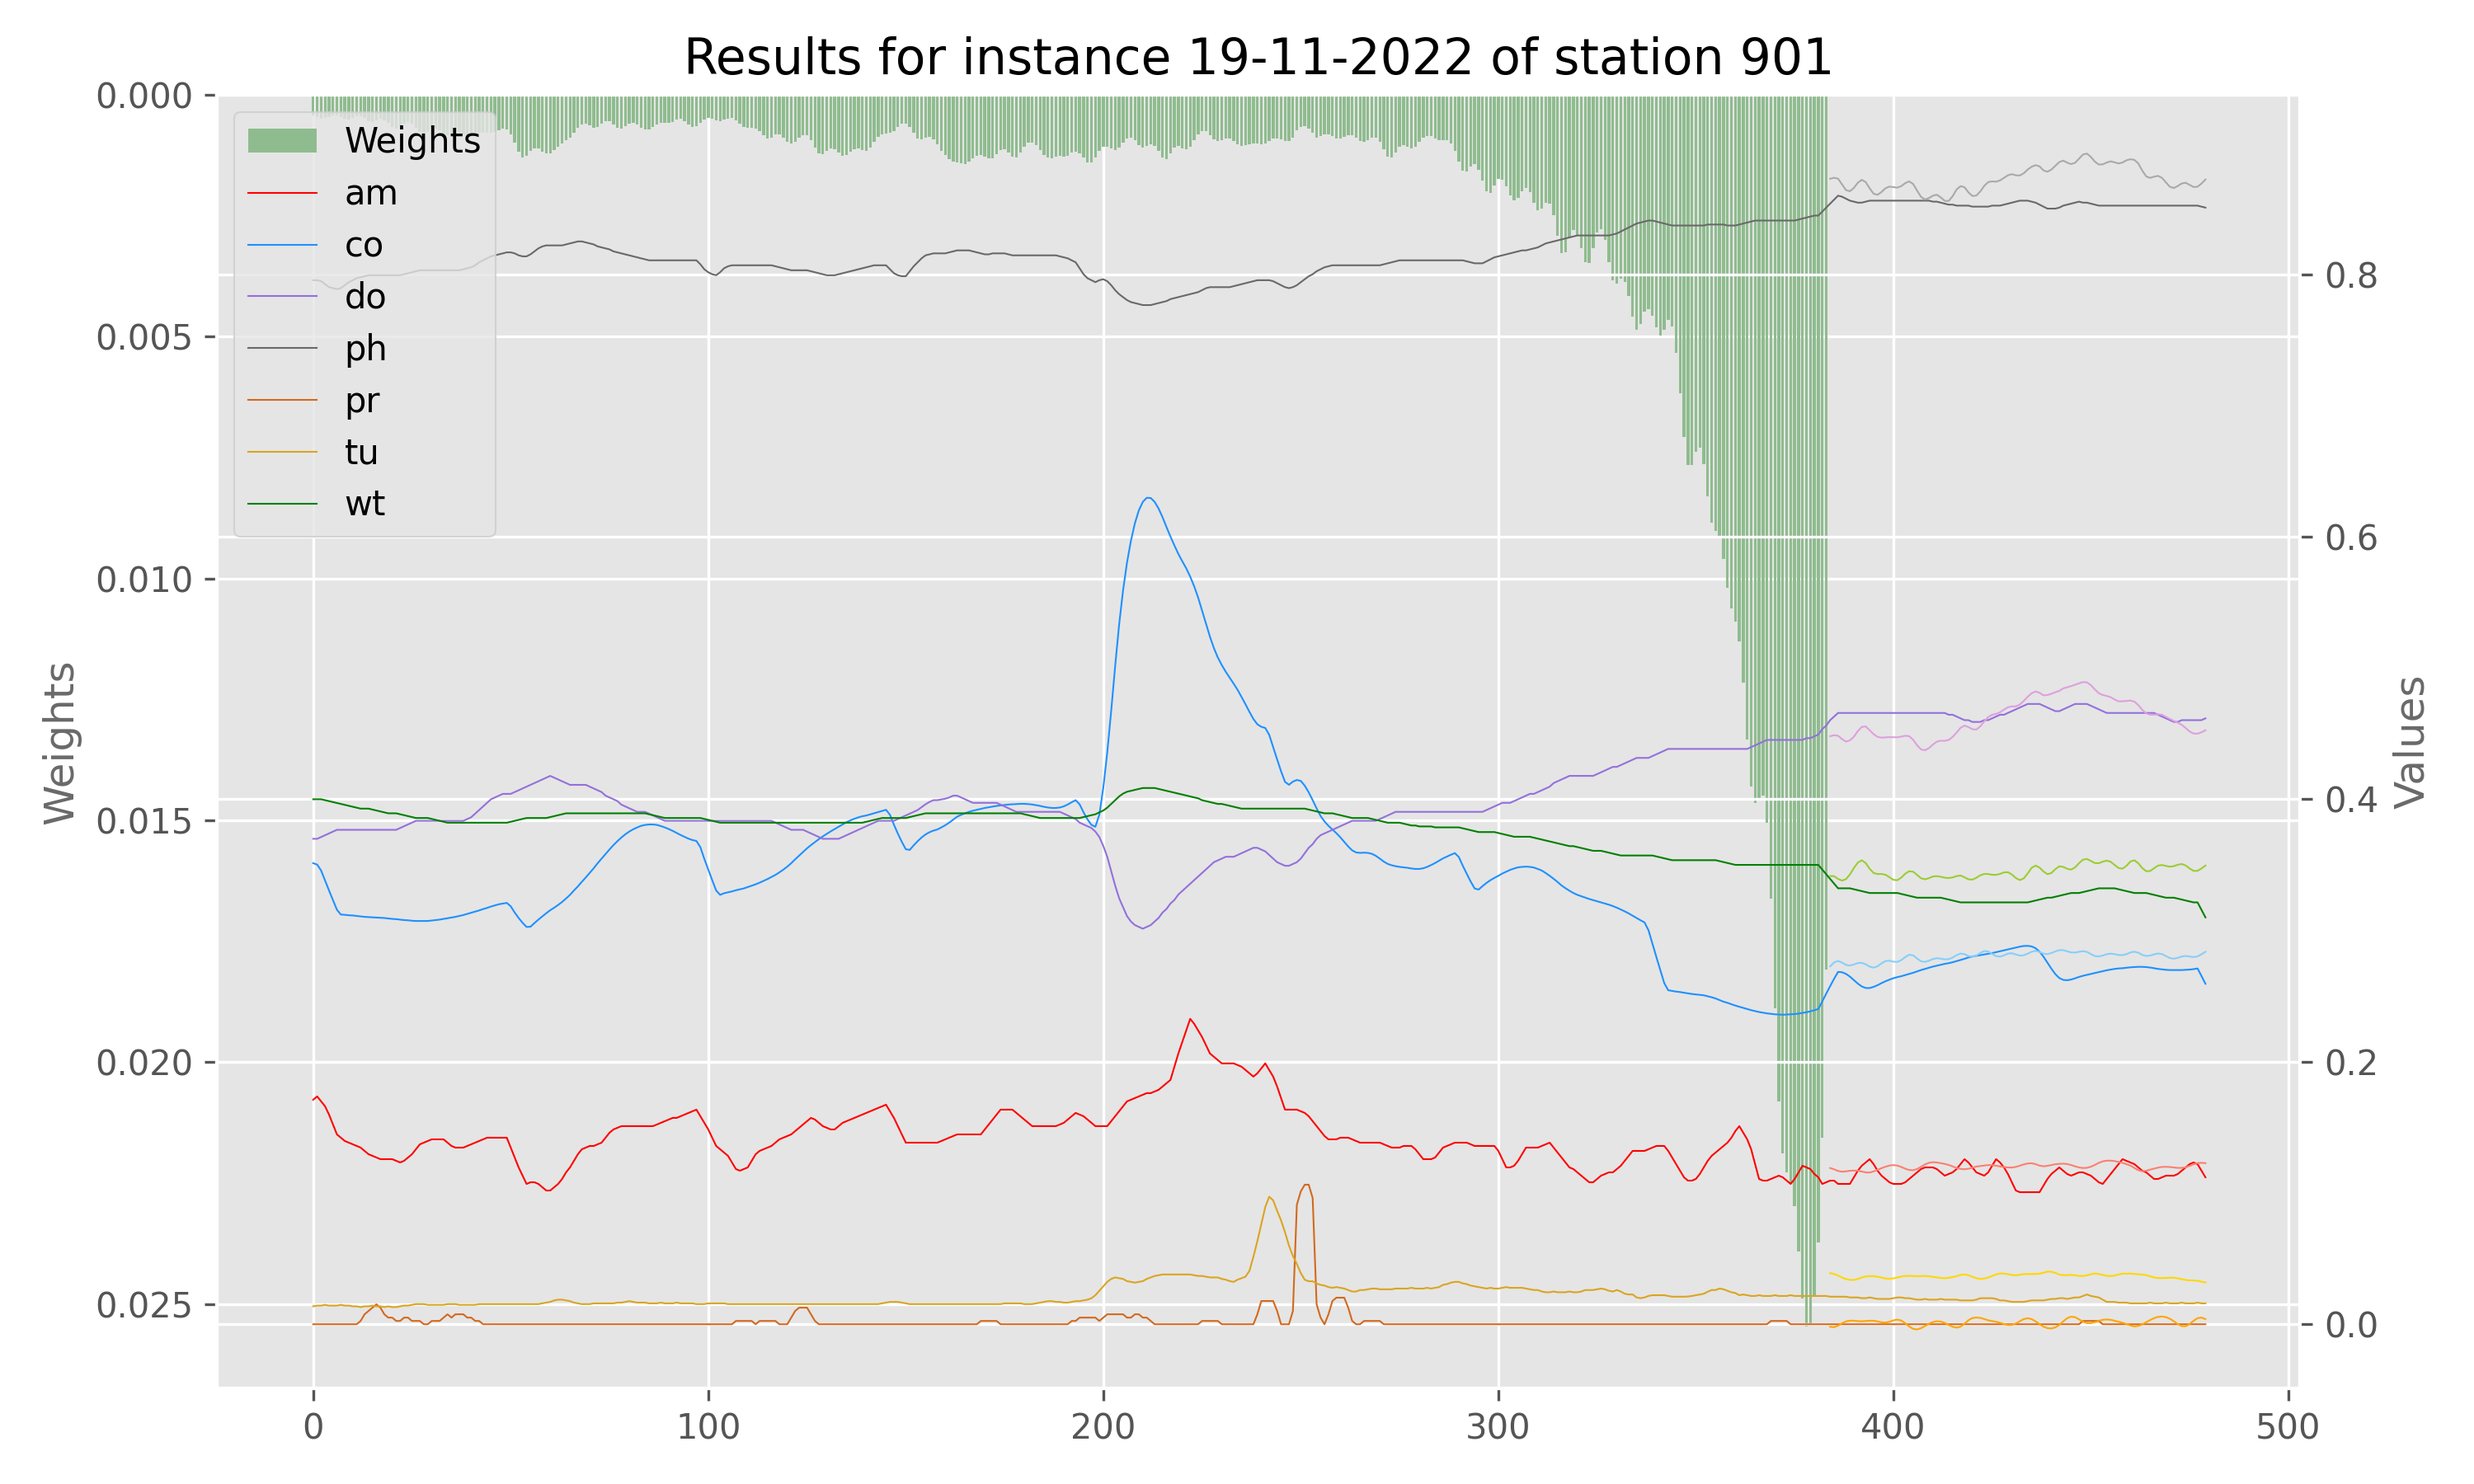
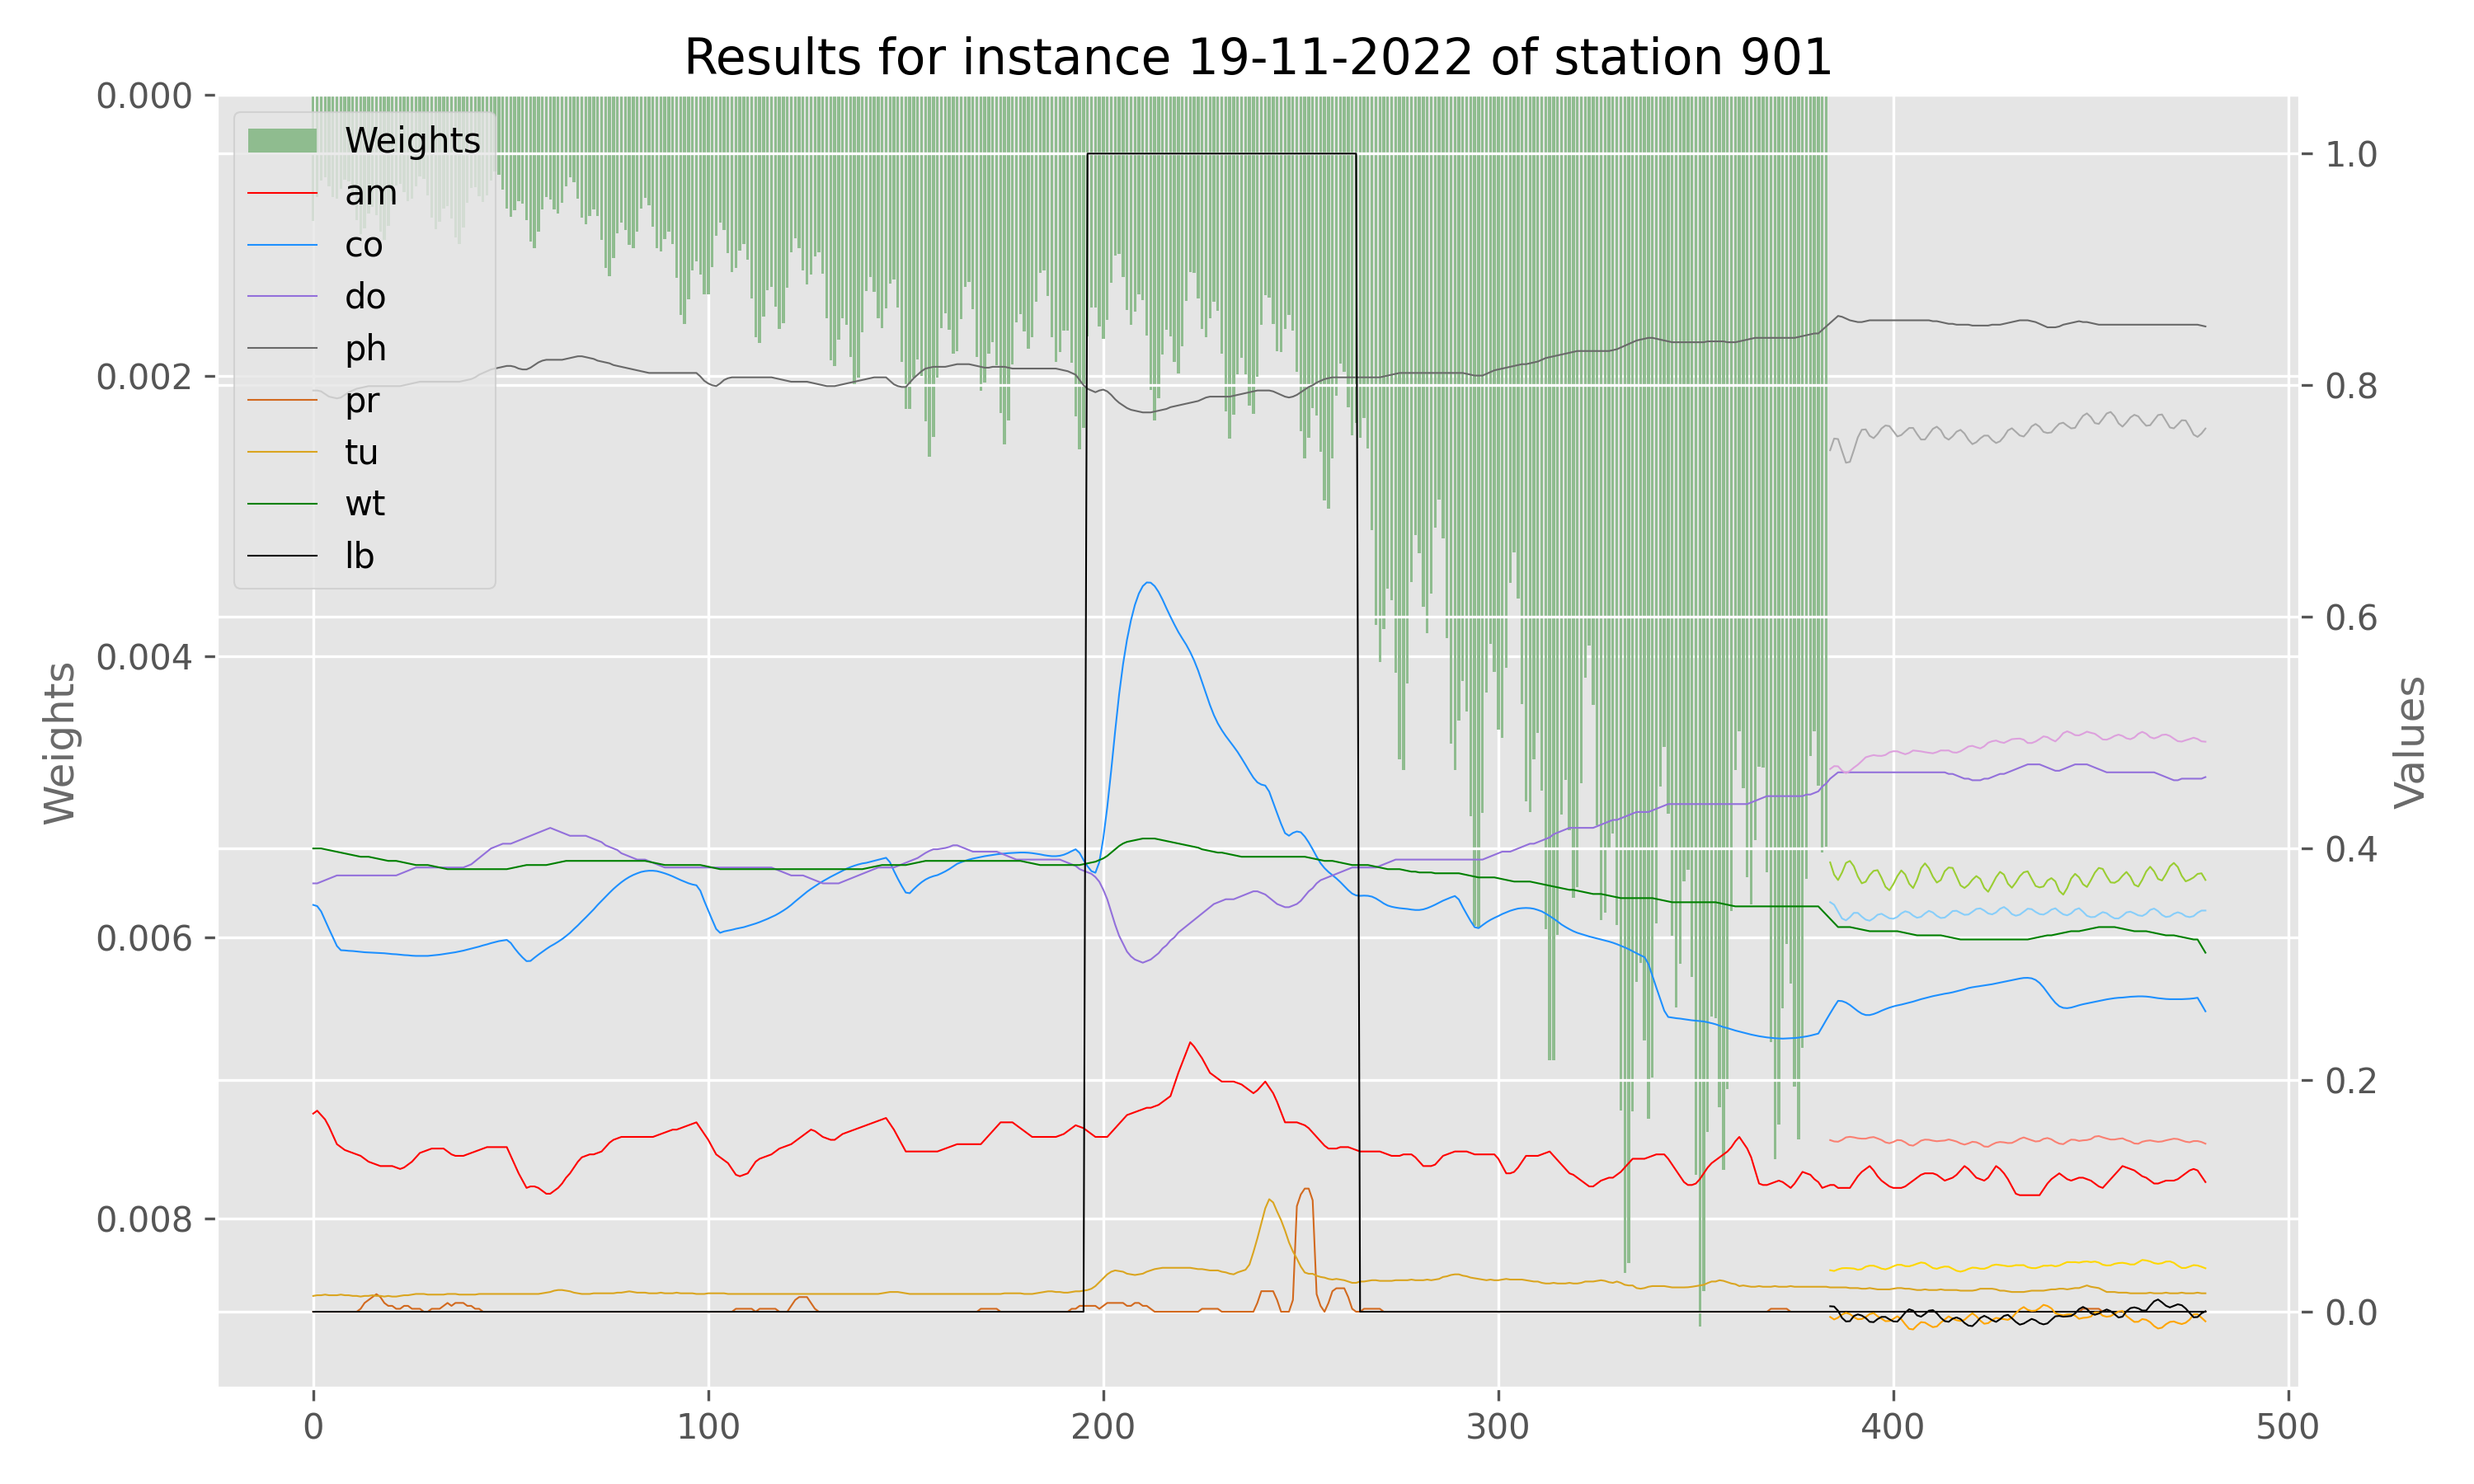
Change prediction task

diff --git a/transformer.py b/transformer.py
@@ -169,11 +169,12 @@ if __name__ == '__main__':
     src_variables = [f'ammonium_{station}', f'conductivity_{station}', 
                     f'dissolved_oxygen_{station}', f'pH_{station}', 
                     f'precipitation_{station}', f'turbidity_{station}',
-                    f'water_temperature_{station}']
+                    f'water_temperature_{station}', 'label']
     tgt_variables = [f'ammonium_{station}', f'conductivity_{station}', 
                     f'dissolved_oxygen_{station}', f'pH_{station}', 
                     f'precipitation_{station}', f'turbidity_{station}',
-                    f'water_temperature_{station}']
+                    f'water_temperature_{station}', 'label']
+
     # input_variables would be just the src or tgt because we are predicting the tgt from the src, and not a tgt that is not in the src
     input_variables = src_variables
     timestamp_col_name = "date"
@@ -181,8 +182,8 @@ if __name__ == '__main__':
     # Only use data from this date and onwards
     cutoff_date = datetime.datetime(2005, 1, 1) 
 
-    d_model = 64
-    n_heads = 4
+    d_model = 16
+    n_heads = 2
     n_encoder_layers = 1
     n_decoder_layers = 1 # Remember that with the current implementation it always has a decoder layer that returns the weights
     encoder_sequence_len = 384 # length of input given to encoder used to create the pre-summarized windows
@@ -196,7 +197,7 @@ if __name__ == '__main__':
     batch_first = True
 
     # Run parameters
-    lr = 0.001
+    lr = 0.0005
     epochs = 300
 
     # Get device

diff --git a/utils.py b/utils.py
@@ -470,9 +470,9 @@ def plots_transformer(date, src, truth, hat, weights, tgt_percentage, station, p
     ground_truth = np.concatenate((src[-int(len(src)*tgt_percentage):], truth))
     
     # Plot the truth and the prediction
-    colors_ground_truth = ['red', 'dodgerblue', 'mediumpurple', 'dimgrey', 'chocolate', 'goldenrod', 'green']
-    colors_hat = ['salmon', 'lightskyblue', 'plum', 'darkgrey', 'orange', 'gold', 'yellowgreen']
-    labels = ['am', 'co', 'do', 'ph', 'pr', 'tu', 'wt']
+    colors_ground_truth = ['red', 'dodgerblue', 'mediumpurple', 'dimgrey', 'chocolate', 'goldenrod', 'green', 'black']
+    colors_hat = ['salmon', 'lightskyblue', 'plum', 'darkgrey', 'orange', 'gold', 'yellowgreen', 'black']
+    labels = ['am', 'co', 'do', 'ph', 'pr', 'tu', 'wt', 'lb']
 
     # Create the plot
     fig, ax1 = plt.subplots(figsize=(10, 6))
